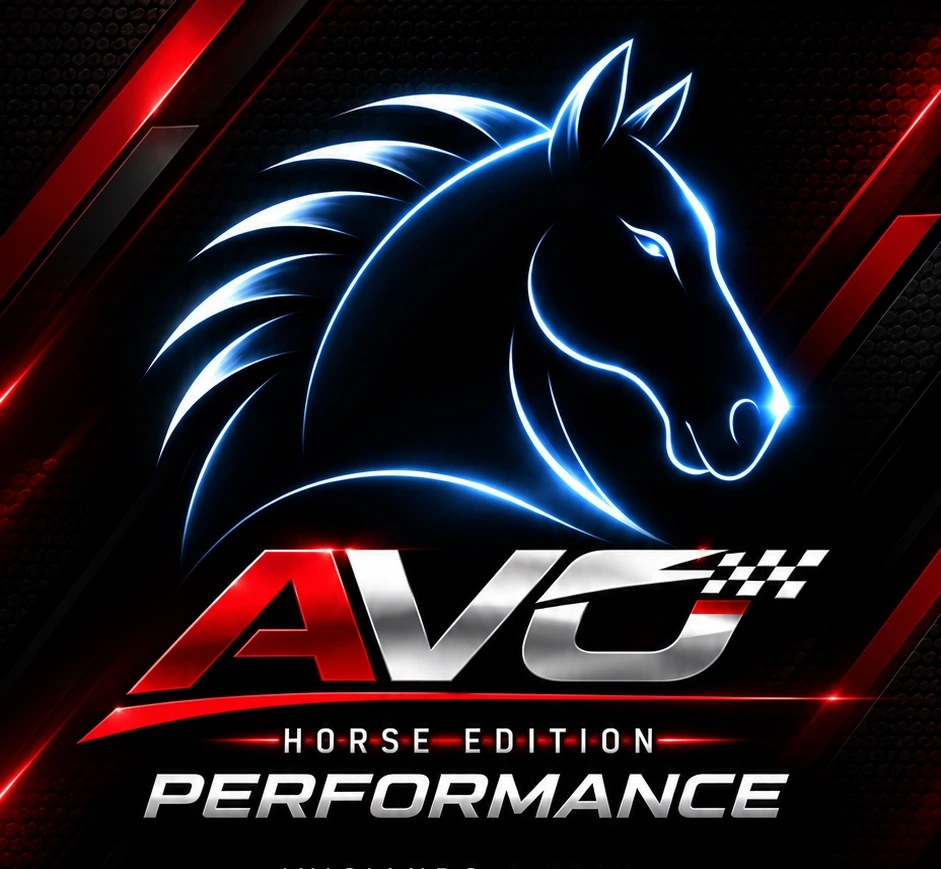
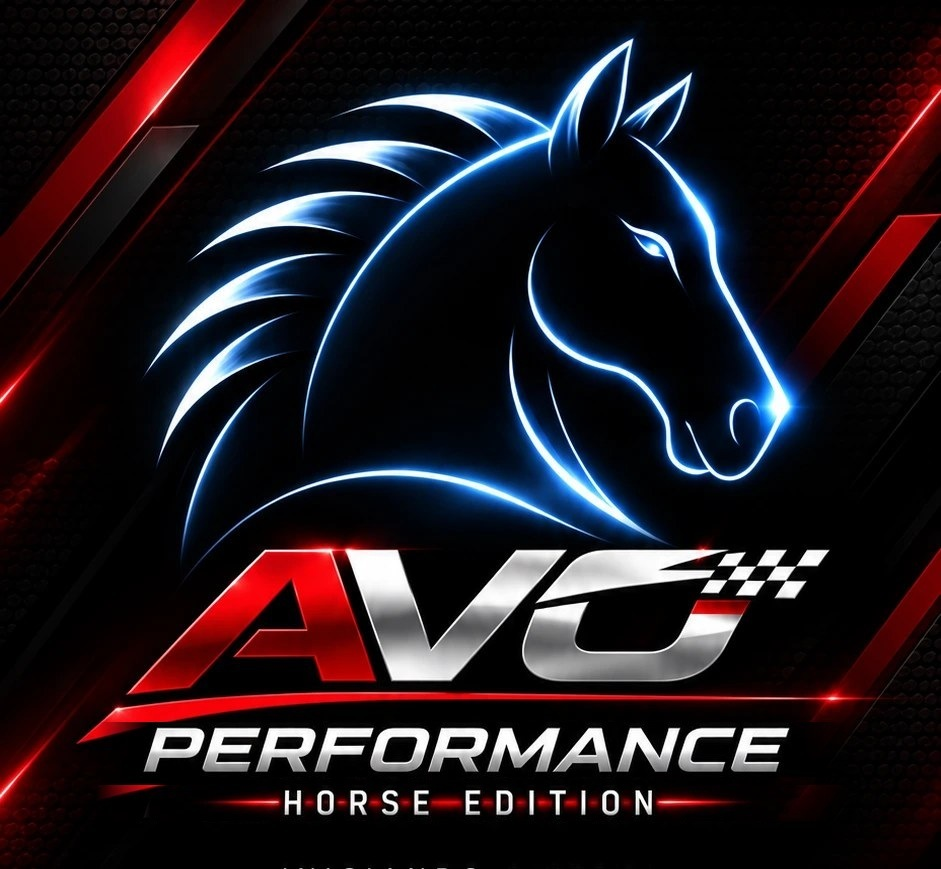
Imagen de marca: PERFORMANCE arriba y HORSE EDITION debajo (iPad, Windows y Android)
Claude-Session: https://claude.ai/code/session_01CHDvF7AVKjQsdZLbt9UoYL

Changed region(s): [[0.0925, 0.8078, 0.8629, 0.9632]]

diff --git a/docs/REGISTRO_DE_CAMBIOS.md b/docs/REGISTRO_DE_CAMBIOS.md
@@ -24,6 +24,16 @@ proyecto. Rama de integración: **`develop/avo-performance-horse`**.
 
 ---
 
+## 2026-11-16 — Imagen de marca (`avo_brand_hero`): «PERFORMANCE» arriba y «HORSE EDITION» debajo
+**Autor:** Claude · **Rama:** `feature/hero-performance-arriba`
+**Qué cambia:** igual que en el logotipo de los informes, en la imagen grande de marca se intercambian las bandas «HORSE EDITION» y «PERFORMANCE». Se hace solo en la zona del texto y con los bordes fundidos, para no cortar las rayas rojas del fondo. Misma resolución (941 × 869). Cambia en todas las apps que usan la imagen:
+- iPad: Dashboard e Inicio;
+- Windows: `Assets/avo_brand_hero.jpg`;
+- Android: `app`, `cards` y `usb-updater` (`drawable-nodpi/avo_brand_hero.webp`).
+
+**Por qué:** boceto del entrenador sobre el Dashboard del iPad (16/11/2026 01:02).
+**Estado:** imagen cambiada · NO VERIFICADO en los dispositivos.
+
 ## 2026-11-16 — Logotipo de los informes: «PERFORMANCE» arriba y «HORSE EDITION» debajo
 **Autor:** Claude · **Rama:** `feature/logo-performance-arriba`
 **Qué cambia:** en el logotipo de la cabecera de los informes (`report_text.jpg`) se intercambian las dos bandas: «PERFORMANCE» pasa justo bajo «AVO» y «HORSE EDITION» va debajo. Mismo tamaño (670 × 282 px). Se cambia en el iPad (`Assets.xcassets/report_text.imageset`) y en Windows (`AVO.Windows.Core/Reports`), que comparten el mismo archivo.
